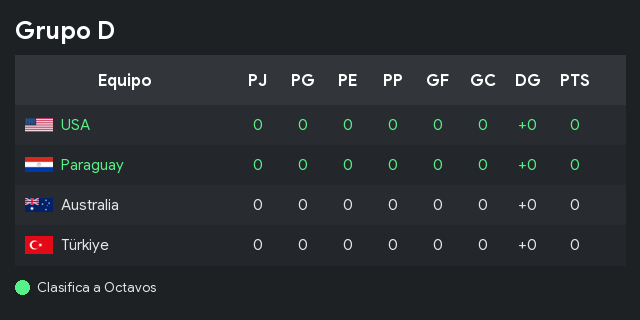
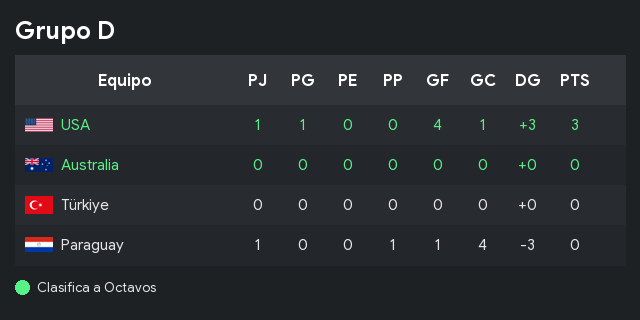
actualizaciones bot

diff --git a/prode-bot/cogs/predicciones.py b/prode-bot/cogs/predicciones.py
@@ -1,11 +1,60 @@
 import discord
 from discord import app_commands
 from discord.ext import commands
-from datetime import datetime
+from datetime import datetime, timedelta
 from database import get_connection
 from utils import bandera
 from config import TIMEZONE as TZ_ARG
 
+
+def construir_embed_partidos_hoy():
+    ahora = datetime.now(TZ_ARG)
+
+    if ahora.hour < 6:
+        inicio_jornada = (ahora - timedelta(days=1)).replace(hour=6, minute=0, second=0, microsecond=0)
+    else:
+        inicio_jornada = ahora.replace(hour=6, minute=0, second=0, microsecond=0)
+
+    fin_jornada = inicio_jornada + timedelta(hours=24)
+
+    conn = get_connection()
+    cursor = conn.cursor()
+    cursor.execute("""
+        SELECT * FROM partidos
+        WHERE fecha_hora >= ? AND fecha_hora < ?
+        ORDER BY fecha_hora
+    """, (inicio_jornada.strftime("%Y-%m-%d %H:%M"), fin_jornada.strftime("%Y-%m-%d %H:%M")))
+    partidos = cursor.fetchall()
+    conn.close()
+
+    if not partidos:
+        return None
+
+    embed = discord.Embed(
+        title=f"📅 Partidos de hoy — {inicio_jornada.strftime('%d/%m/%Y')}",
+        color=discord.Color.blue()
+    )
+
+    lineas = []
+    for p in partidos:
+        fecha_p = datetime.strptime(p["fecha_hora"], "%Y-%m-%d %H:%M")
+        hora = fecha_p.strftime("%H:%M")
+        sufijo = " (+1)" if fecha_p.date() > inicio_jornada.date() else ""
+
+        local = f"{bandera(p['equipo_local'])} {p['equipo_local']}"
+        visitante = f"{bandera(p['equipo_visitante'])} {p['equipo_visitante']}"
+
+        if p["cerrado"]:
+            resultado = f"`{p['goles_local']} - {p['goles_visitante']}` ✅"
+        else:
+            resultado = "_pendiente_"
+
+        lineas.append(f"`#{p['id']}` — {hora}{sufijo} hs | {local} vs {visitante} — {resultado}")
+
+    embed.description = "\n".join(lineas)
+    embed.set_footer(text="Usá /predecir partido_id:<ID> para cargar tu pronóstico")
+
+    return embed
 
 class Predicciones(commands.Cog):
     def __init__(self, bot):
@@ -158,6 +207,14 @@ class Predicciones(commands.Cog):
 
         embed.description = texto
         await interaction.response.send_message(embed=embed, ephemeral=True)
+
+    @app_commands.command(name="partidos_hoy", description="Mostrá los partidos de hoy con su ID")
+    async def partidos_hoy(self, interaction: discord.Interaction):
+        embed = construir_embed_partidos_hoy()
+        if embed is None:
+            await interaction.response.send_message("No hay partidos programados para hoy.")
+            return
+        await interaction.response.send_message(embed=embed)
 
 
 async def setup(bot):

diff --git a/prode-bot/cogs/recordatorios.py b/prode-bot/cogs/recordatorios.py
@@ -1,18 +1,22 @@
 import discord
 from discord.ext import commands, tasks
-from datetime import datetime, timedelta
+from datetime import datetime, timedelta, time
 from database import get_connection
 from utils import bandera
 from config import TIMEZONE as TZ_ARG
+from cogs.predicciones import construir_embed_partidos_hoy
 
 
 class Recordatorios(commands.Cog):
     def __init__(self, bot):
         self.bot = bot
         self.check_recordatorios.start()
+        self.aviso_diario.start()
 
     def cog_unload(self):
         self.check_recordatorios.cancel()
+        self.aviso_diario.cancel()
+    
 
     @tasks.loop(minutes=15)
     async def check_recordatorios(self):
@@ -70,6 +74,33 @@ class Recordatorios(commands.Cog):
                     conn.commit()
 
         conn.close()
+
+    @tasks.loop(time=time(12, 0, tzinfo=TZ_ARG))
+    async def aviso_diario(self):
+        cursor = get_connection().cursor()
+        cursor.execute("SELECT valor FROM config WHERE clave = 'canal_recordatorios'")
+        row = cursor.fetchone()
+        cursor.connection.close()
+
+        if not row:
+            return
+
+        canal = self.bot.get_channel(int(row["valor"]))
+        if not canal:
+            return
+
+        embed = construir_embed_partidos_hoy()
+        if embed is None:
+            return  # no hay partidos hoy, no molestamos
+
+        await canal.send(
+            content="@everyone Los partidos del día de hoy son los siguientes 👇 ¡No se olviden de hacer sus predicciones! El ID está a la izquierda de cada partido.",
+            embed=embed
+        )
+
+    @aviso_diario.before_loop
+    async def before_aviso(self):
+        await self.bot.wait_until_ready()
 
     @check_recordatorios.before_loop
     async def before_check(self):

diff --git a/prode-bot/cogs/ayuda.py b/prode-bot/cogs/ayuda.py
@@ -29,9 +29,19 @@ class Ayuda(commands.Cog):
         embed.add_field(
             name="📊 Información",
             value=(
+                "`/partidos_hoy` — Partidos del día con su ID (para predecir)\n"
                 "`/listar_partidos` — Vé el fixture completo\n"
                 "`/grupo <letra>` — Tabla de posiciones de un grupo (ej: `/grupo A`)\n"
                 "`/ranking` — Tabla de posiciones del prode"
+            ),
+            inline=False
+        )
+
+        embed.add_field(
+            name="🔔 Avisos automáticos",
+            value=(
+                "Todos los días a las 12:00 el bot publica los partidos del día.\n"
+                "Antes de cada partido, el bot recuerda con 2hs y 1h de anticipación."
             ),
             inline=False
         )